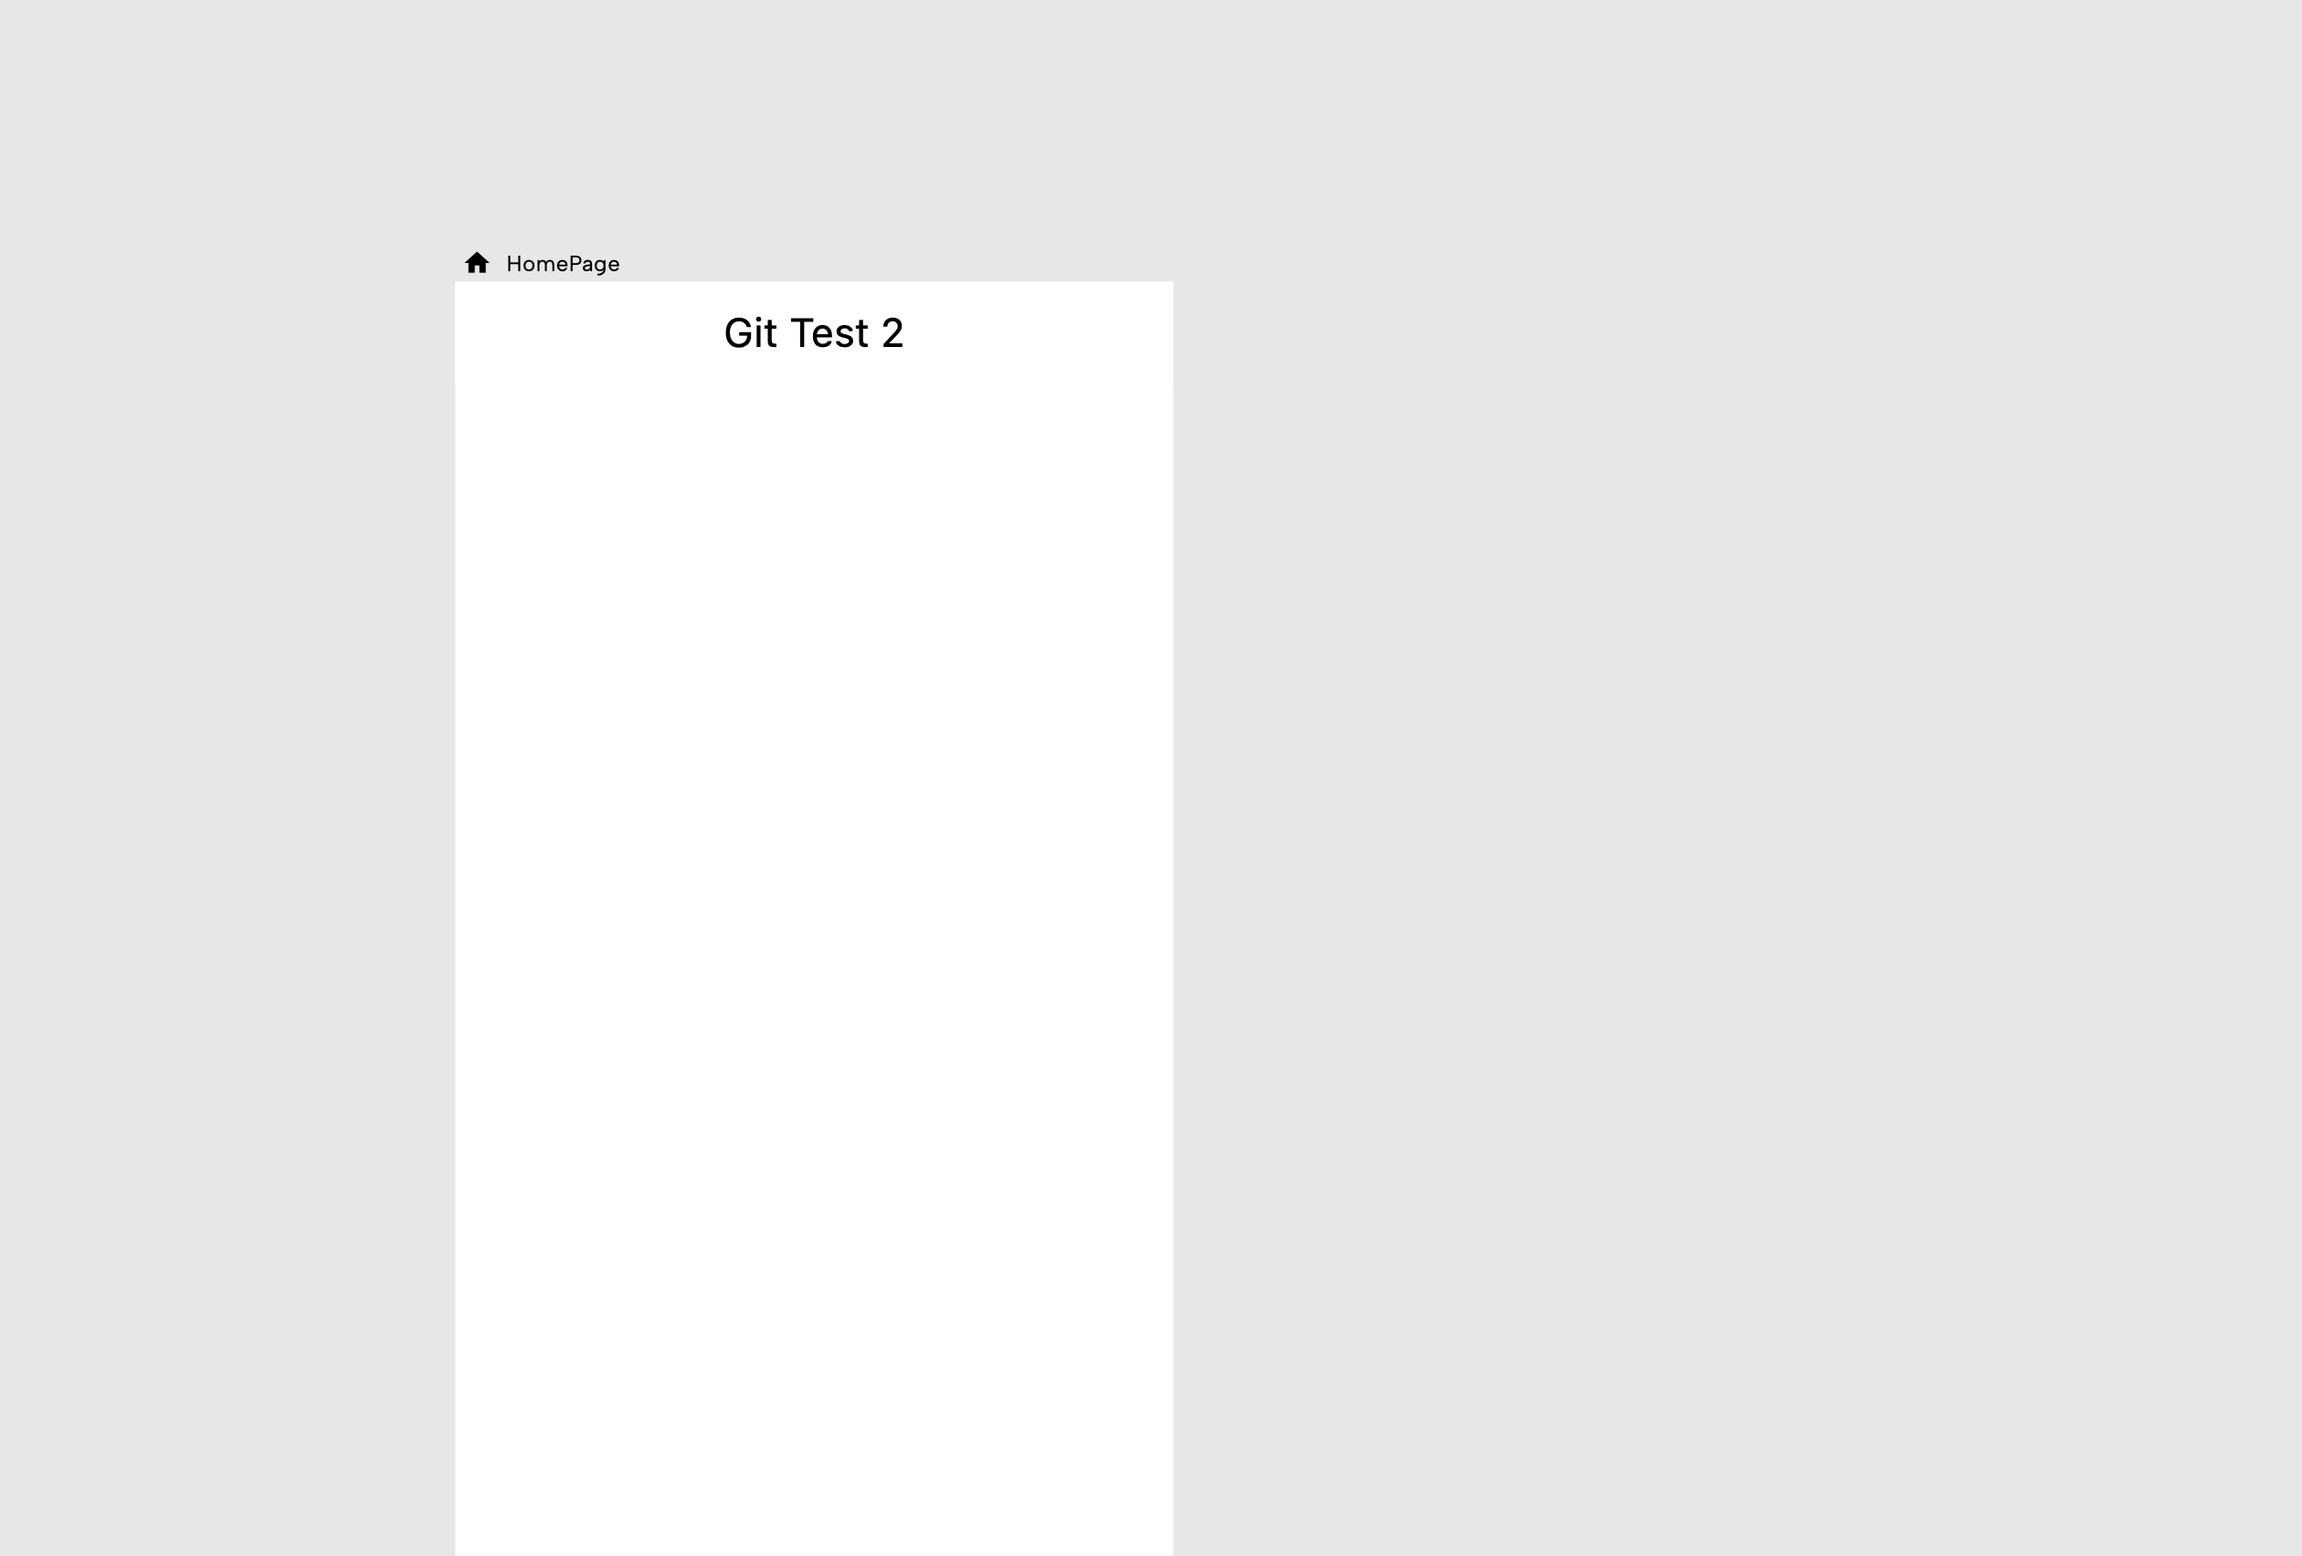
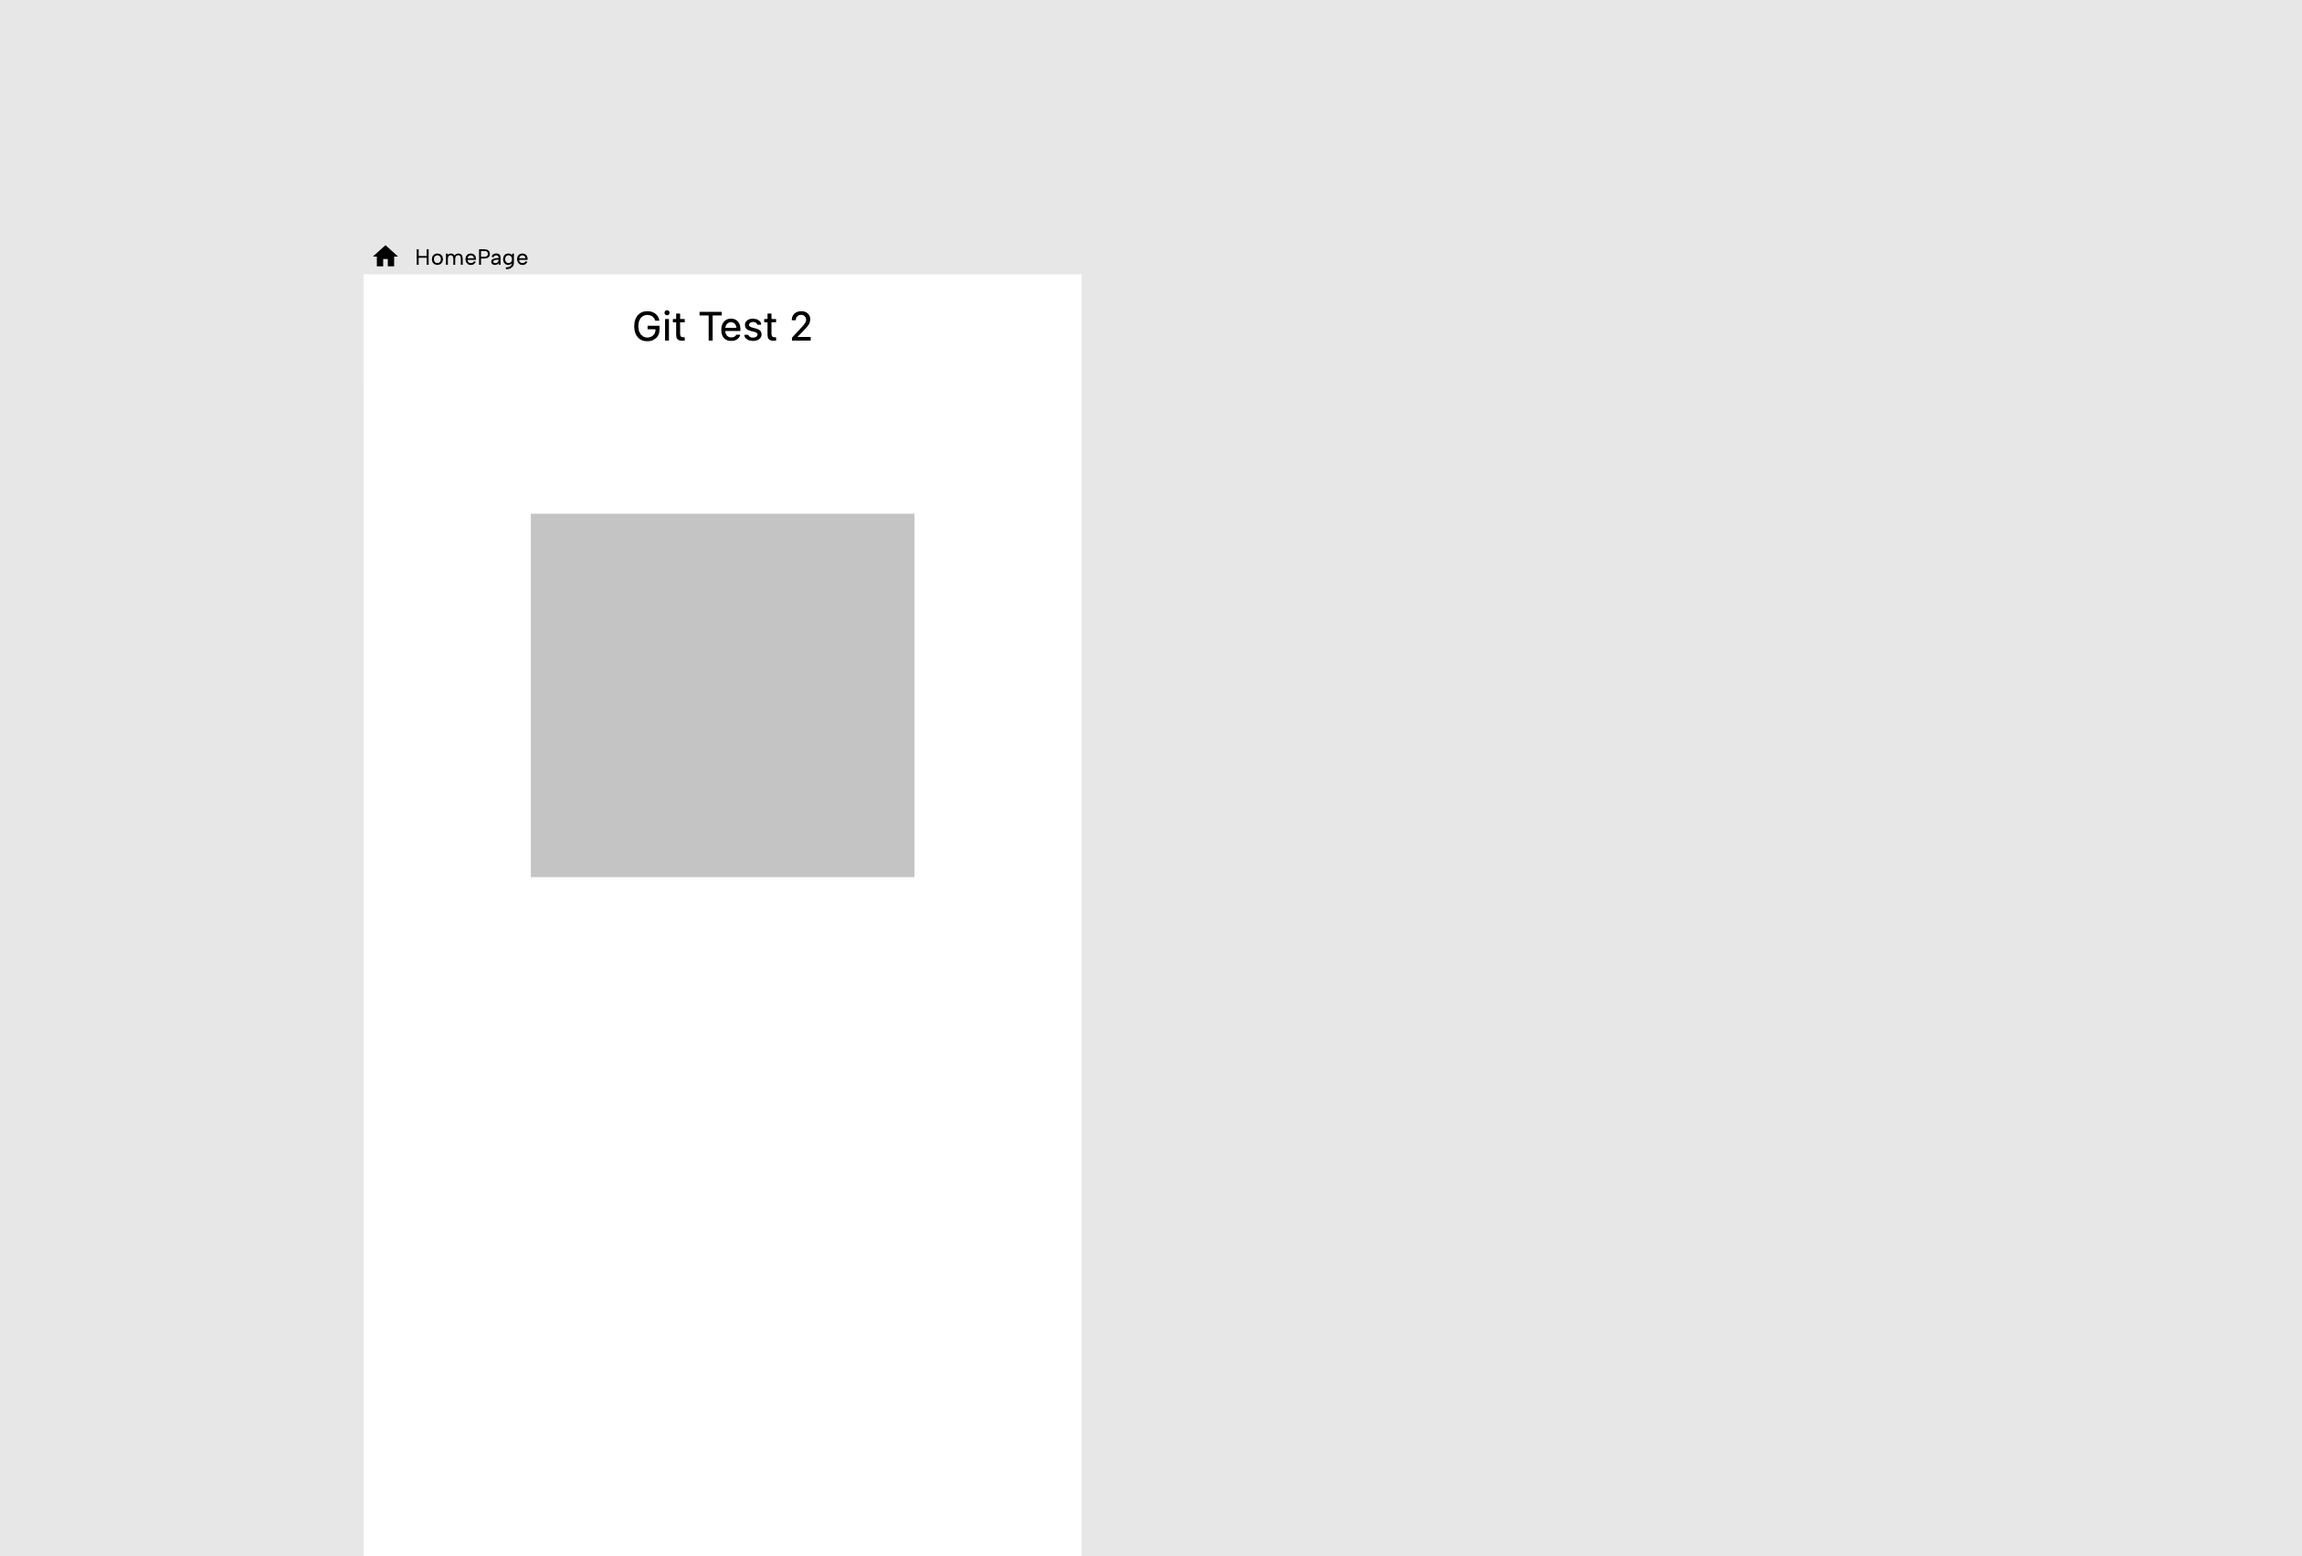
adding a cool rect

Changed region(s): [[0.2167, 0.311, 0.4024, 0.591], [0.1548, 0.1555, 0.2786, 0.1866], [0.2786, 0.1866, 0.3714, 0.2177]]

diff --git a/lib/pages/home_page.dart b/lib/pages/home_page.dart
@@ -18,7 +18,19 @@ class HomePage extends StatelessWidget {
         child: Stack(
           fit: StackFit.expand,
           alignment: const Alignment(0.0, 0.0),
-          children: [],
+          children: [
+            Positioned(
+              top: 75.0,
+              left: 91.5,
+              width: 210.0,
+              height: 199.0,
+              child: Container(
+                decoration: BoxDecoration(
+                    color: Color(0xffc4c4c4),
+                    borderRadius: BorderRadius.circular(0.0)),
+              ),
+            )
+          ],
         ),
       ),
     );
